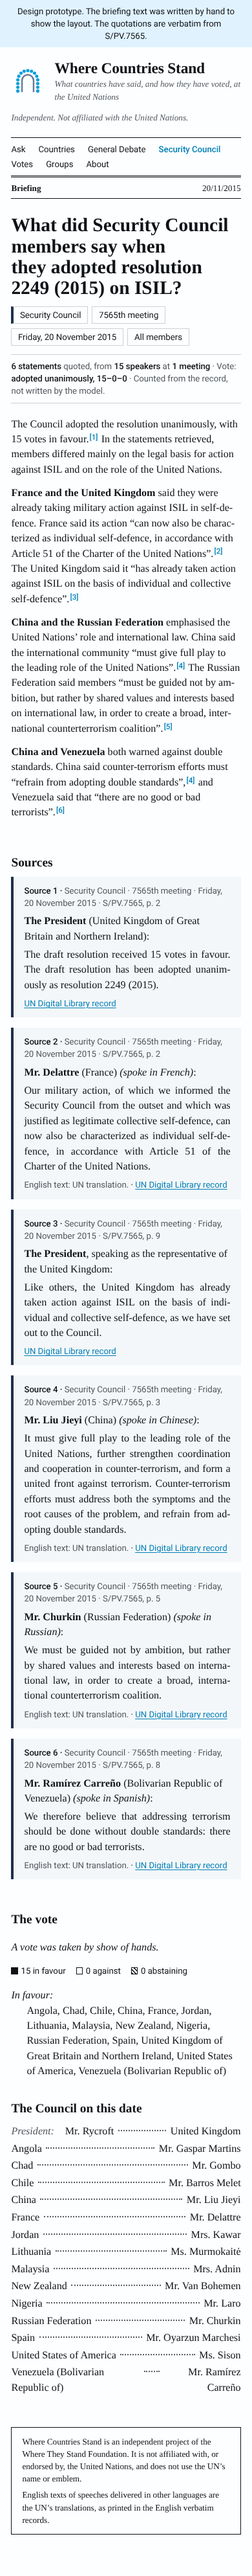
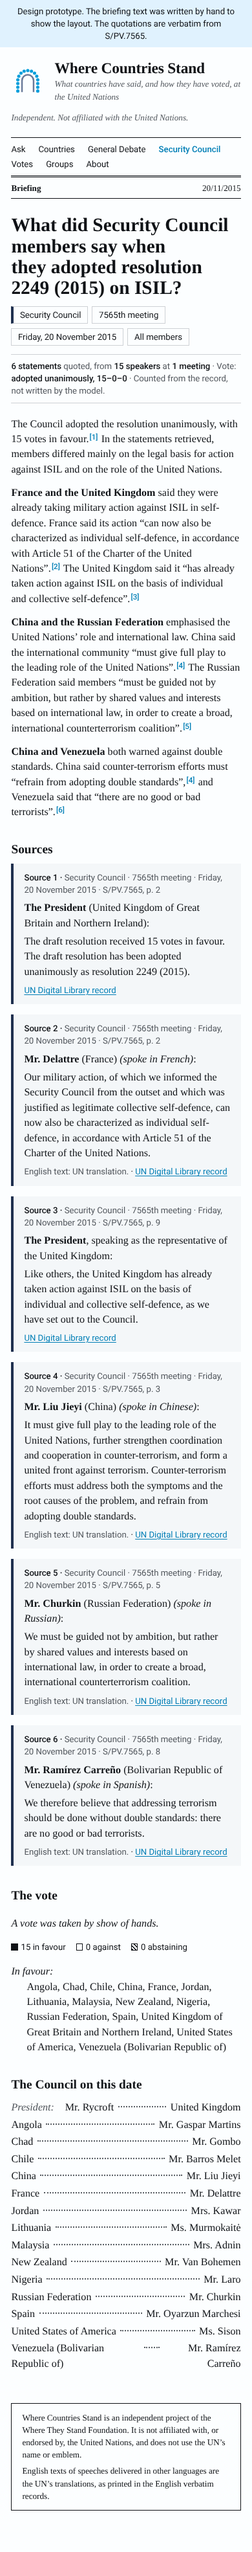
Set the prototype in a single column
Briefings, sources, the vote and the home page lists now run in one
ragged-right column at a reading width of about 46rem, instead of the
record's two justified columns and side-by-side sections.

Claude-Session: https://claude.ai/code/session_01SxHoKgCR5rdzwG1wcdgNsp

Changed region(s): [[0.0308, 0.0, 0.9538, 0.9985]]

diff --git a/web/prototype/styles.css b/web/prototype/styles.css
@@ -207,10 +207,8 @@ ol.agenda li::marker { font-weight: 700; }
 
 /* ---- Layout ---- */
 
-.two-up { display: grid; gap: 0 3rem; }
-@media (min-width: 56rem) {
-  .two-up { grid-template-columns: 3fr 2fr; }
-}
+/* One column throughout, at a comfortable reading width. */
+.two-up, .columns, .summary, .ask, h1, .chips { max-inline-size: 46rem; }
 
 /* ---- Briefing ---- */
 
@@ -223,16 +221,9 @@ ol.agenda li::marker { font-weight: 700; }
 }
 .summary strong { color: var(--ink); font-weight: 500; }
 
-/* The briefing is set in two justified columns, like the record. */
-.columns {
-  margin-block: 1.25rem;
-  hyphens: auto;
-}
-@media (min-width: 56rem) {
-  .columns { columns: 2; column-gap: 2.5rem; column-rule: 1px solid var(--rule-faint); text-align: justify; }
-}
+/* The briefing: a single column, ragged right. */
+.columns { margin-block: 1.25rem; }
 .columns p { margin-block: 0 0.8rem; }
-.columns p.group-lead { break-after: avoid; }
 
 /* Bold first words of a group, like a speaker's name in the record. */
 .group-name { font-weight: 700; }
@@ -271,7 +262,7 @@ ol.agenda li::marker { font-weight: 700; }
 .source__speaker { margin: 0 0 0.3rem; }
 .source__speaker b { font-weight: 700; }
 .source__speaker i { font-style: italic; }
-.source blockquote { margin: 0; text-align: justify; hyphens: auto; }
+.source blockquote { margin: 0; }
 .source__links { font-family: var(--sans); font-size: var(--step--1); margin: 0.5rem 0 0; }
 .translated {
   font-family: var(--sans);

diff --git a/docs/DESIGN.md b/docs/DESIGN.md
@@ -35,7 +35,7 @@ Based on S/PV.7565 (20 November 2015):
 
 | In the record | In the site |
 |---|---|
-| Set in **Times New Roman**, two justified columns | Body in **Tinos**, which is metrically identical to Times New Roman (Apache 2.0). Briefings are set in two justified columns on wide screens, one on phones. |
+| Set in **Times New Roman**, two justified columns | Body in **Tinos**, which is metrically identical to Times New Roman (Apache 2.0). Everything is a **single column**, ragged right, at a comfortable reading width (about 46rem). The record's two columns are not copied. |
 | Masthead: body name large and bold, session line in italic beneath, status ("Provisional") in italic on the right | Site name large and bold, a description in italic beneath, "Independent. Not affiliated with the United Nations." in italic on the right |
 | Running header between rules: symbol · agenda item in italic · date | "Briefing" · topic in italic · date |
 | Speakers as **Mr. Delattre** (France) *(spoke in French)*: | Exactly the same in every source. The italic language note doubles as the translation flag. |

diff --git a/docs/DECISIONS.md b/docs/DECISIONS.md
@@ -15,4 +15,4 @@ here once they're made.
 | 8 | Licence | Code AGPL-3.0, as Where They Stand. Briefing text **CC BY-NC 4.0**, because of the UN's non-commercial terms. |
 | 9 | Hosting and budget | Start on the existing Where They Stand server if there's room; otherwise a second server of about £40–70 a month. A separate AI spending cap, about $50 a month to start. |
 | 10 | Testing | A test set of about 50 questions from the start, including sparse ones where "No records found" is the right answer. |
-| 11 | Look | The look of the UN's printed Official Records, with the UN's web palette and typeface for controls, and no UN name, emblem or wordmark. See [`DESIGN.md`](DESIGN.md). |
+| 11 | Look | The look of the UN's printed Official Records, in a **single column** (not the records' two columns), with the UN's web palette and typeface for controls, and no UN name, emblem or wordmark. See [`DESIGN.md`](DESIGN.md). |
